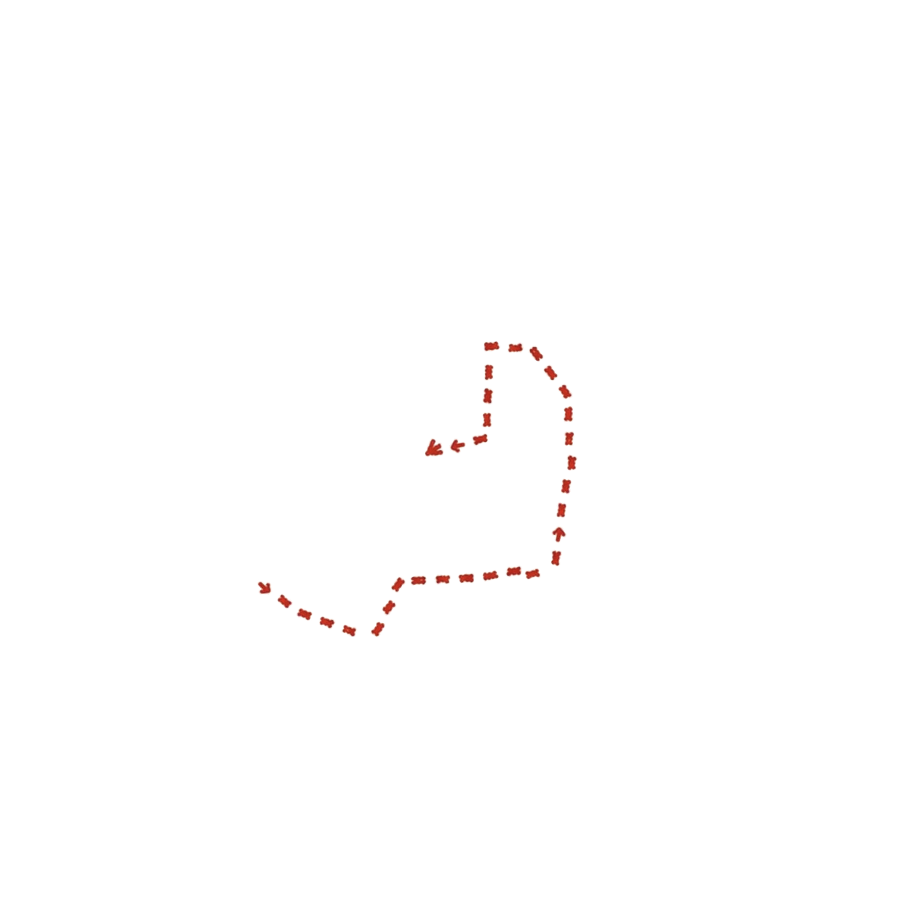
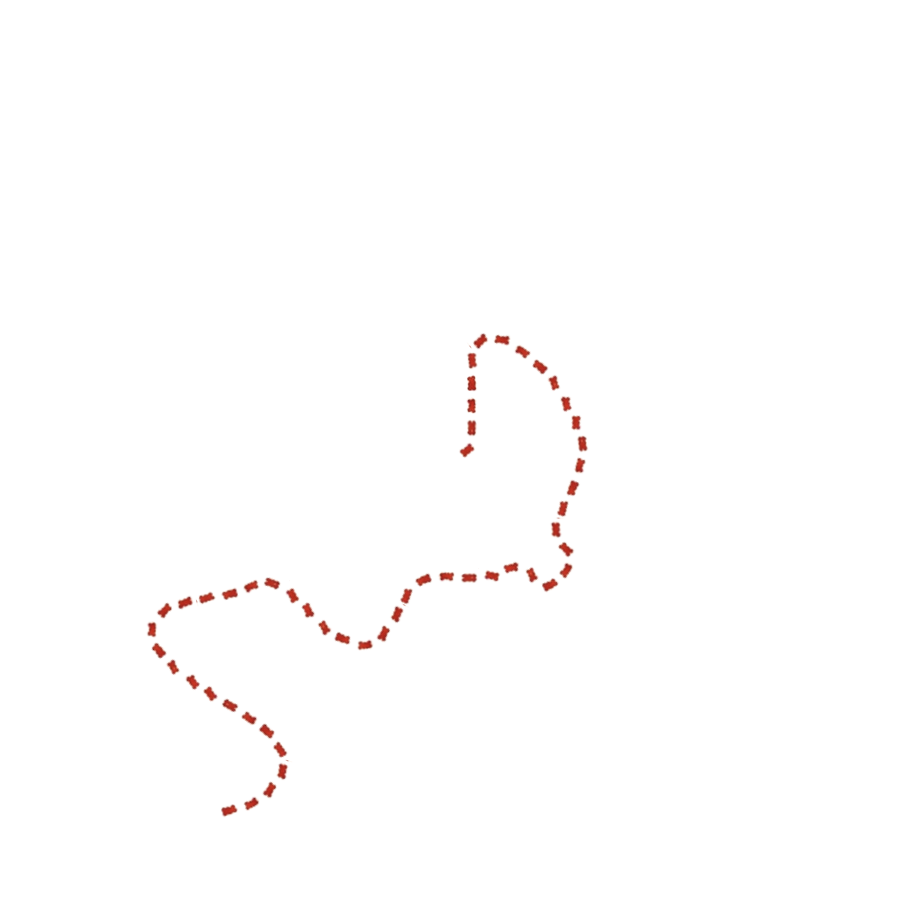
Polish finale maze route motion

diff --git a/app/globals.css b/app/globals.css
@@ -31,7 +31,7 @@ button { cursor: pointer; }
 .journey-artifact.arriving { animation: artifactSettle .42s 2.02s cubic-bezier(.2,.82,.2,1) both; }
 @keyframes artifactSettle { from { opacity: 0; transform: scale(.88) rotate(var(--part-rotate, 0deg)); } 70% { opacity: 1; transform: scale(1.07) rotate(var(--part-rotate, 0deg)); } to { opacity: 1; transform: scale(1) rotate(var(--part-rotate, 0deg)); filter: saturate(1.05); } }
 
-/* Room logo → poster: the route handoff continues across navigation. */
+/* Room logo → poster: the final gate keeps the poster's original wall weight. */
 .collection-transfer { position: fixed; z-index: 80; inset: 0; overflow: hidden; color: var(--ink); background: var(--soft); pointer-events: none; }
 .transfer-room-panel { position: absolute; z-index: 1; inset: 0; display: grid; place-content: center; justify-items: center; text-align: center; background: var(--soft); }
 .transfer-room-panel > span { color: var(--accent); font: 800 9px var(--font-geist-mono); letter-spacing: .18em; }
@@ -69,31 +69,30 @@ button { cursor: pointer; }
 .collection-transfer.is-keepsake.is-settled .transfer-room-panel h2 { animation: keepsakeTitle 1.1s cubic-bezier(.18,.72,.2,1) both; }
 .collection-transfer.is-afterglow .transfer-afterglow { animation: afterglowReveal 1.45s cubic-bezier(.18,.72,.2,1) both; }
 .collection-transfer.is-finale .assembly-artifact { opacity: 0; }
+.collection-transfer.is-finale .assembly-artifact.artifact-sound { opacity: 0 !important; animation: none !important; }
 .collection-transfer.is-assembling .assembly-artifact.artifact-eyes { animation: assembleEyes 1.25s var(--assembly-delay) cubic-bezier(.18,.72,.2,1) both; }
-.collection-transfer.is-assembling .assembly-artifact.artifact-sound { animation: assembleSound 1.25s var(--assembly-delay) cubic-bezier(.18,.72,.2,1) both; }
-.collection-transfer.is-assembling .assembly-artifact.artifact-body { animation: assembleBody 1.25s var(--assembly-delay) cubic-bezier(.18,.72,.2,1) both; }
 .collection-transfer.is-assembling .assembly-artifact.artifact-heart { animation: assembleHeart 1.25s var(--assembly-delay) cubic-bezier(.18,.72,.2,1) both; }
 .collection-transfer.is-assembling .assembly-artifact.artifact-grace { animation: assembleGrace 1.25s var(--assembly-delay) cubic-bezier(.18,.72,.2,1) both; }
-.collection-transfer.is-gate-opening .transfer-poster .artifact-sound { opacity: 1 !important; animation: gateReady 2.2s cubic-bezier(.2,.82,.2,1) both; }
 .collection-transfer.is-gate-opening .transfer-poster .journey-artifact:not(.artifact-sound) { animation: assembledPulse 2.2s cubic-bezier(.2,.82,.2,1) both; }
 .collection-transfer.is-final-scene .transfer-final-picture { opacity: 1; clip-path: none; }
 .collection-transfer.is-route-searching .transfer-poster .journey-artifact.artifact-eyes { opacity: .28 !important; transition: opacity 1.1s ease; }
-.collection-transfer.is-route-searching .route-magnifier { animation: magnifierFollowRoute 6.6s linear both; }
-.collection-transfer.is-route-searching .route-segment-1 { animation: routeSegmentIn 1.3s .1s ease-out both; }
-.collection-transfer.is-route-searching .route-segment-2 { animation: routeSegmentIn 1.3s 1.25s ease-out both; }
-.collection-transfer.is-route-searching .route-segment-3 { animation: routeSegmentIn 1.3s 2.4s ease-out both; }
-.collection-transfer.is-route-searching .route-segment-4 { animation: routeSegmentIn 1.3s 3.55s ease-out both; }
-.collection-transfer.is-route-searching .route-segment-5 { animation: routeSegmentIn 1.3s 4.7s ease-out both; }
-.collection-transfer.is-route-complete .transfer-poster .journey-artifact.artifact-grace { animation: crossFound 1.45s cubic-bezier(.2,.82,.2,1) both; }
-.collection-transfer.is-route-complete .route-magnifier { opacity: 0; transition: opacity 1.15s ease; }
+.collection-transfer.is-route-searching .transfer-poster .journey-artifact.artifact-body { opacity: 0 !important; animation: none !important; }
+.collection-transfer.is-route-searching .route-magnifier { animation: magnifierFollowRoute 9.6s linear both; }
+.collection-transfer.is-route-searching .route-segment-1 { animation: routeSegmentIn 2.15s .1s cubic-bezier(.2,.75,.2,1) both; }
+.collection-transfer.is-route-searching .route-segment-2 { animation: routeSegmentIn 2.15s 1.95s cubic-bezier(.2,.75,.2,1) both; }
+.collection-transfer.is-route-searching .route-segment-3 { animation: routeSegmentIn 2.15s 3.85s cubic-bezier(.2,.75,.2,1) both; }
+.collection-transfer.is-route-searching .route-segment-4 { animation: routeSegmentIn 2.15s 5.75s cubic-bezier(.2,.75,.2,1) both; }
+.collection-transfer.is-route-searching .route-segment-5 { animation: routeSegmentIn 2.15s 7.65s cubic-bezier(.2,.75,.2,1) both; }
+.collection-transfer.is-route-complete .transfer-poster .journey-artifact.artifact-grace { opacity: 1; animation: crossFound 1.45s cubic-bezier(.2,.82,.2,1) both; }
+.collection-transfer.is-route-complete .route-magnifier { animation: magnifierFound 1.35s cubic-bezier(.2,.82,.2,1) both; }
 .collection-transfer.is-route-complete .transfer-finale-caption { animation: finaleCaption 2.4s .25s cubic-bezier(.2,.82,.2,1) both; }
 .collection-transfer.is-finished { animation: transferStageFinish .82s ease forwards; }
-.sound-wall-closed { position: absolute; z-index: 3; left: var(--part-left); top: var(--part-top); width: var(--part-width); height: auto; object-fit: contain; opacity: 0; transform: rotate(var(--part-rotate)); }
-.sound-wall-closed-left { clip-path: inset(0 50% 0 0); transform-origin: 0 50%; }
-.sound-wall-closed-right { clip-path: inset(0 0 0 50%); transform-origin: 100% 50%; }
+.sound-wall-closed { position: absolute; z-index: 3; inset: 0; width: 100%; height: 100%; object-fit: cover; opacity: 0; mix-blend-mode: multiply; transform: none; }
+.sound-wall-closed-left { clip-path: inset(0 71.1% 0 0); transform-origin: 28.9% 64%; }
+.sound-wall-closed-right { clip-path: inset(0 0 0 28.9%); transform-origin: 28.9% 64%; }
 .collection-transfer.is-assembling .assembly-wall { animation: assembleWall 1.25s var(--assembly-delay) cubic-bezier(.18,.72,.2,1) both; }
-.collection-transfer.is-gate-opening .sound-wall-closed-left { animation: gateRetractLeft 2.2s cubic-bezier(.32,.02,.18,1) both; }
-.collection-transfer.is-gate-opening .sound-wall-closed-right { animation: gateRetractRight 2.2s cubic-bezier(.32,.02,.18,1) both; }
+.collection-transfer.is-gate-opening .sound-wall-closed-left { animation: gateOpenLeft 3s cubic-bezier(.4,0,.2,1) both; }
+.collection-transfer.is-gate-opening .sound-wall-closed-right { animation: gateOpenRight 3s cubic-bezier(.4,0,.2,1) both; }
 @keyframes transferRoomExit { 0%,38% { opacity: 1; transform: none; } to { opacity: 0; transform: translateX(-42vw) scale(.94); } }
 @keyframes transferLogoRelease { 0%,28% { transform: rotate(-3deg) scale(1); } 44% { transform: rotate(1deg) scale(1.045); } to { opacity: .16; transform: translateX(-18vw) rotate(-8deg) scale(.78); filter: grayscale(.72); } }
 @keyframes transferPosterEnter { 0% { opacity: 0; transform: translateX(68vw) scale(.82) rotate(2deg); } 22% { opacity: 1; } 86% { transform: translateX(-1vw) scale(1.012) rotate(-.25deg); } to { opacity: 1; transform: none; box-shadow: none; } }
@@ -103,29 +102,58 @@ button { cursor: pointer; }
 @keyframes afterglowReveal { from { opacity: 0; } to { opacity: 1; } }
 @keyframes transferStageFinish { to { opacity: 0; background: transparent; } }
 @keyframes assembleEyes { 0% { opacity: 0; transform: translate(18%,-24%) rotate(-8deg) scale(.45); } 68% { opacity: 1; transform: translate(-2%,2%) rotate(4deg) scale(1.07); filter: saturate(1.35) drop-shadow(0 0 10px rgba(53,104,232,.38)); } to { opacity: 1; transform: rotate(var(--part-rotate)) scale(1); filter: saturate(1.05); } }
-@keyframes assembleSound { 0% { opacity: 0; transform: rotate(calc(var(--part-rotate) - 12deg)) scale(.4); } 62% { opacity: 1; transform: rotate(calc(var(--part-rotate) + 3deg)) scale(1.08); filter: saturate(1.45) drop-shadow(0 0 8px rgba(233,84,47,.48)); } to { opacity: 1; transform: rotate(var(--part-rotate)) scale(1); filter: saturate(1.05); } }
-@keyframes assembleBody { 0% { opacity: 0; clip-path: inset(100% 0 0); transform: rotate(var(--part-rotate)) scale(.92); } 68% { opacity: 1; clip-path: inset(0); filter: saturate(1.5) drop-shadow(0 0 8px rgba(29,154,108,.4)); } to { opacity: 1; clip-path: inset(0); transform: rotate(var(--part-rotate)) scale(1); filter: saturate(1.05); } }
 @keyframes assembleHeart { 0% { opacity: 0; transform: rotate(-35deg) scale(.45); } 68% { opacity: 1; transform: rotate(14deg) scale(1.08); filter: saturate(1.4) drop-shadow(0 0 9px rgba(139,84,198,.42)); } to { opacity: 1; transform: rotate(var(--part-rotate)) scale(1); filter: saturate(1.05); } }
 @keyframes assembleGrace { 0% { opacity: 0; transform: rotate(var(--part-rotate)) scale(.35); } 62% { opacity: 1; transform: rotate(var(--part-rotate)) scale(1.13); filter: saturate(1.4) drop-shadow(0 0 13px rgba(216,155,24,.52)); } to { opacity: 1; transform: rotate(var(--part-rotate)) scale(1); filter: saturate(1.05); } }
-@keyframes assembleWall { 0% { opacity: 0; transform: rotate(var(--part-rotate)) scale(.4); } 65% { opacity: 1; transform: rotate(var(--part-rotate)) scale(1.06); filter: drop-shadow(0 0 5px rgba(23,23,19,.25)); } to { opacity: 1; transform: rotate(var(--part-rotate)) scale(1); } }
-@keyframes gateReady { 0%,100% { transform: rotate(var(--part-rotate)) scale(1); filter: saturate(1.05); } 48% { transform: rotate(var(--part-rotate)) scale(1.035); filter: saturate(1.25) drop-shadow(0 0 5px rgba(233,84,47,.3)); } }
-@keyframes gateRetractLeft { 0%,14% { opacity: 1; transform: rotate(var(--part-rotate)) scaleX(1); } 78% { opacity: 1; transform: rotate(var(--part-rotate)) scaleX(.62); } to { opacity: .08; transform: rotate(var(--part-rotate)) scaleX(.58); } }
-@keyframes gateRetractRight { 0%,14% { opacity: 1; transform: rotate(var(--part-rotate)) scaleX(1); } 78% { opacity: 1; transform: rotate(var(--part-rotate)) scaleX(.62); } to { opacity: .08; transform: rotate(var(--part-rotate)) scaleX(.58); } }
+@keyframes assembleWall { 0% { opacity: 0; } 64% { opacity: 1; } to { opacity: 1; } }
+@keyframes gateOpenLeft { 0%,12% { opacity: 1; transform: translate(0,0); } 38% { opacity: 1; transform: translate(-.85%,-1.25%); } 68% { opacity: 1; transform: translate(-1.7%,-2.5%); } 88% { opacity: 1; transform: translate(-2.35%,-3.45%); } to { opacity: 0; transform: translate(-2.65%,-3.85%); } }
+@keyframes gateOpenRight { 0%,12% { opacity: 1; transform: translate(0,0); } 38% { opacity: 1; transform: translate(.85%,1.25%); } 68% { opacity: 1; transform: translate(1.7%,2.5%); } 88% { opacity: 1; transform: translate(2.35%,3.45%); } to { opacity: 0; transform: translate(2.65%,3.85%); } }
 @keyframes assembledPulse { 50% { transform: scale(1.06) rotate(var(--part-rotate,0deg)); filter: saturate(1.25) drop-shadow(0 0 7px rgba(232,169,19,.28)); } }
-@keyframes finalRouteReveal { from { opacity: 0; clip-path: circle(0 at 28% 65%); } to { opacity: 1; clip-path: circle(125% at 28% 65%); } }
+@keyframes finalRouteReveal { from { opacity: 0; clip-path: circle(0 at 25.6% 90%); } to { opacity: 1; clip-path: circle(125% at 25.6% 90%); } }
 @keyframes magnifierFollowRoute {
-  0% { left: 29%; top: 65%; opacity: 0; transform: translate(-53%,-30%) rotate(-18deg) scale(.72); }
-  5% { opacity: 1; transform: translate(-53%,-30%) rotate(-12deg) scale(.82); }
-  16% { left: 37%; top: 70%; transform: translate(-53%,-30%) rotate(8deg) scale(.82); }
-  28% { left: 44.5%; top: 64.5%; transform: translate(-53%,-30%) rotate(-10deg) scale(.84); }
-  44% { left: 61.7%; top: 63.8%; transform: translate(-53%,-30%) rotate(-4deg) scale(.84); }
-  58% { left: 63.2%; top: 48%; transform: translate(-53%,-30%) rotate(-18deg) scale(.86); }
-  70% { left: 63.2%; top: 38.5%; transform: translate(-53%,-30%) rotate(-9deg) scale(.86); }
-  81% { left: 54.2%; top: 38.5%; transform: translate(-53%,-30%) rotate(9deg) scale(.88); }
-  92% { left: 53.8%; top: 49.5%; transform: translate(-53%,-30%) rotate(15deg) scale(.9); }
-  100% { left: 47.5%; top: 50.5%; opacity: 1; transform: translate(-53%,-30%) rotate(-8deg) scale(.94); filter: saturate(1.35) drop-shadow(0 0 11px rgba(53,104,232,.3)); }
+  0% { left: 25.56%; top: 90%; opacity: 0; transform: translate(-47%,-44%) rotate(-10deg) scale(.68); }
+  2.5% { left: 28.6%; top: 88.83%; opacity: 1; transform: translate(-47%,-44%) rotate(-10deg) scale(.685); }
+  5% { left: 30.9%; top: 86.54%; opacity: 1; transform: translate(-47%,-44%) rotate(-10deg) scale(.69); }
+  7.5% { left: 31.23%; top: 83.39%; opacity: 1; transform: translate(-47%,-44%) rotate(-10deg) scale(.695); }
+  10% { left: 29.24%; top: 80.83%; opacity: 1; transform: translate(-47%,-44%) rotate(-10deg) scale(.7); }
+  12.5% { left: 26.58%; top: 78.92%; opacity: 1; transform: translate(-47%,-44%) rotate(-10deg) scale(.705); }
+  15% { left: 23.8%; top: 77.18%; opacity: 1; transform: translate(-47%,-44%) rotate(-10deg) scale(.71); }
+  17.5% { left: 21.06%; top: 75.39%; opacity: 1; transform: translate(-47%,-44%) rotate(-10deg) scale(.715); }
+  20% { left: 18.53%; top: 73.31%; opacity: 1; transform: translate(-47%,-44%) rotate(-10deg) scale(.72); }
+  22.5% { left: 16.83%; top: 70.56%; opacity: 1; transform: translate(-47%,-44%) rotate(-10deg) scale(.725); }
+  25% { left: 18.23%; top: 67.86%; opacity: 1; transform: translate(-47%,-44%) rotate(-10deg) scale(.73); }
+  27.5% { left: 21.29%; top: 66.72%; opacity: 1; transform: translate(-47%,-44%) rotate(-10deg) scale(.735); }
+  30% { left: 24.52%; top: 66.16%; opacity: 1; transform: translate(-47%,-44%) rotate(-10deg) scale(.74); }
+  32.5% { left: 27.67%; top: 65.3%; opacity: 1; transform: translate(-47%,-44%) rotate(-10deg) scale(.745); }
+  35% { left: 30.71%; top: 65.05%; opacity: 1; transform: translate(-47%,-44%) rotate(-10deg) scale(.75); }
+  37.5% { left: 33.29%; top: 67.05%; opacity: 1; transform: translate(-47%,-44%) rotate(-10deg) scale(.755); }
+  40% { left: 35.62%; top: 69.36%; opacity: 1; transform: translate(-47%,-44%) rotate(-10deg) scale(.76); }
+  42.5% { left: 38.35%; top: 71.14%; opacity: 1; transform: translate(-47%,-44%) rotate(-10deg) scale(.765); }
+  45% { left: 41.52%; top: 71.35%; opacity: 1; transform: translate(-47%,-44%) rotate(-10deg) scale(.77); }
+  47.5% { left: 43.67%; top: 68.94%; opacity: 1; transform: translate(-47%,-44%) rotate(-10deg) scale(.775); }
+  50% { left: 45.23%; top: 66.06%; opacity: 1; transform: translate(-47%,-44%) rotate(-10deg) scale(.78); }
+  52.5% { left: 47.83%; top: 64.24%; opacity: 1; transform: translate(-47%,-44%) rotate(-10deg) scale(.785); }
+  55% { left: 51.1%; top: 64.16%; opacity: 1; transform: translate(-47%,-44%) rotate(-10deg) scale(.79); }
+  57.5% { left: 54.37%; top: 64.13%; opacity: 1; transform: translate(-47%,-44%) rotate(-10deg) scale(.795); }
+  60% { left: 57.38%; top: 62.92%; opacity: 1; transform: translate(-47%,-44%) rotate(-10deg) scale(.8); }
+  62.5% { left: 59.96%; top: 64.75%; opacity: 1; transform: translate(-47%,-44%) rotate(-10deg) scale(.805); }
+  65% { left: 62.6%; top: 63.69%; opacity: 1; transform: translate(-47%,-44%) rotate(-10deg) scale(.81); }
+  67.5% { left: 62.77%; top: 60.74%; opacity: 1; transform: translate(-47%,-44%) rotate(-10deg) scale(.815); }
+  70% { left: 61.97%; top: 57.8%; opacity: 1; transform: translate(-47%,-44%) rotate(-10deg) scale(.82); }
+  72.5% { left: 63.31%; top: 54.81%; opacity: 1; transform: translate(-47%,-44%) rotate(-10deg) scale(.825); }
+  75% { left: 64.47%; top: 51.75%; opacity: 1; transform: translate(-47%,-44%) rotate(-10deg) scale(.83); }
+  77.5% { left: 64.58%; top: 48.5%; opacity: 1; transform: translate(-47%,-44%) rotate(-10deg) scale(.835); }
+  80% { left: 63.43%; top: 45.45%; opacity: 1; transform: translate(-47%,-44%) rotate(-10deg) scale(.84); }
+  82.5% { left: 61.67%; top: 42.68%; opacity: 1; transform: translate(-47%,-44%) rotate(-10deg) scale(.845); }
+  85% { left: 59.47%; top: 40.26%; opacity: 1; transform: translate(-47%,-44%) rotate(-10deg) scale(.85); }
+  87.5% { left: 56.87%; top: 38.27%; opacity: 1; transform: translate(-47%,-44%) rotate(-10deg) scale(.855); }
+  90% { left: 53.8%; top: 37.54%; opacity: 1; transform: translate(-47%,-44%) rotate(-10deg) scale(.86); }
+  92.5% { left: 52.33%; top: 40.28%; opacity: 1; transform: translate(-47%,-44%) rotate(-10deg) scale(.865); }
+  95% { left: 52.33%; top: 43.56%; opacity: 1; transform: translate(-47%,-44%) rotate(-10deg) scale(.87); }
+  97.5% { left: 52.33%; top: 46.83%; opacity: 1; transform: translate(-47%,-44%) rotate(-10deg) scale(.875); }
+  100% { left: 51.67%; top: 50%; opacity: 1; transform: translate(-47%,-44%) rotate(-10deg) scale(.88); filter: saturate(1.3) drop-shadow(0 0 10px rgba(53,104,232,.26)); }
 }
-@keyframes routeSegmentIn { from { opacity: 0; transform: scale(.985); filter: saturate(.7); } 58% { opacity: 1; filter: saturate(1.5) drop-shadow(0 0 5px rgba(233,84,47,.48)); } to { opacity: 1; transform: scale(1); filter: saturate(1.05); } }
+@keyframes magnifierFound { from { left: 51.67%; top: 50%; opacity: 1; transform: translate(-47%,-44%) rotate(-10deg) scale(.88); filter: saturate(1.3) drop-shadow(0 0 10px rgba(53,104,232,.26)); } 42% { left: 51.67%; top: 50%; opacity: .72; transform: translate(-47%,-44%) rotate(-6deg) scale(.94); } to { left: 51.67%; top: 50%; opacity: 0; transform: translate(-47%,-44%) rotate(-2deg) scale(.78); filter: saturate(1); } }
+@keyframes routeSegmentIn { from { opacity: 0; transform: scale(.992); filter: saturate(.72); } 58% { opacity: 1; filter: saturate(1.28) drop-shadow(0 0 4px rgba(201,71,52,.22)); } to { opacity: 1; transform: scale(1); filter: saturate(1.04); } }
 @keyframes crossFound { 0% { transform: scale(.92); filter: saturate(.9); } 55% { transform: scale(1.13); filter: saturate(1.3) drop-shadow(0 0 11px rgba(232,169,19,.48)); } 100% { transform: scale(1); filter: saturate(1.05); } }
 @keyframes finaleCaption { 0% { opacity: 0; transform: translate(-50%,24px) rotate(-1deg); } 22%, 82% { opacity: 1; transform: translate(-50%,0) rotate(-1deg); } to { opacity: 0; transform: translate(-50%,-10px) rotate(-1deg); } }
 .artifact-legend { padding: 12px 4px 3px; display: grid; grid-template-columns: repeat(5,1fr); gap: 5px; border-top: 1px solid var(--line); }
@@ -140,11 +168,13 @@ button { cursor: pointer; }
 @keyframes toastFind { 0% { opacity: 0; transform: translateY(24px) rotate(2deg); } 18%, 76% { opacity: 1; transform: translateY(0) rotate(-1deg); } 100% { opacity: 0; transform: translateY(-12px) rotate(-1deg); pointer-events: none; } }
 .journey-found-picture, .transfer-final-picture { position: absolute; z-index: 1; inset: 0; overflow: hidden; pointer-events: none; }
 .journey-found-picture { animation: finalRouteReveal 1.05s cubic-bezier(.2,.82,.2,1) both; }
-.transfer-final-picture { opacity: 0; clip-path: circle(0 at 28% 65%); }
+.transfer-final-picture { opacity: 0; clip-path: circle(0 at 25.6% 90%); }
 .journey-final-route, .journey-route-segment { position: absolute; inset: 0; width: 100%; height: 100%; object-fit: cover; }
 .journey-route-segment { opacity: 0; }
-.route-magnifier { position: absolute; z-index: 5; left: 29%; top: 65%; width: 24%; height: auto; opacity: 0; border-radius: 50%; mix-blend-mode: multiply; pointer-events: none; transform: translate(-53%,-30%) rotate(-18deg) scale(.72); transform-origin: 53% 30%; filter: saturate(1.15) drop-shadow(0 7px 6px rgba(0,0,0,.16)); }
+.journey-found-picture .journey-route-segment { opacity: 1; }
+.route-magnifier { position: absolute; z-index: 5; left: 25.56%; top: 90%; width: 20%; height: auto; opacity: 0; border-radius: 50%; mix-blend-mode: multiply; pointer-events: none; transform: translate(-47%,-44%) rotate(-10deg) scale(.68); transform-origin: 47% 44%; filter: saturate(1.12) drop-shadow(0 6px 5px rgba(0,0,0,.14)); }
 .journey-complete .artifact-grace { animation: crossFound .9s .28s cubic-bezier(.2,.82,.2,1) both; }
+.journey-complete .artifact-sound, .journey-complete .artifact-body { opacity: 0; }
 .journey-complete .artifact-eyes { translate: var(--piece-react-x,0) var(--piece-react-y,0); transition: translate .28s cubic-bezier(.2,.82,.2,1), filter .28s ease; }
 .journey-complete .artifact-heart { rotate: var(--compass-react,0deg); transition: rotate .28s cubic-bezier(.2,.82,.2,1), filter .28s ease; }
 .journey-complete:hover .artifact-eyes, .journey-complete:hover .artifact-heart { filter: saturate(1.18) drop-shadow(0 0 6px rgba(25,63,174,.16)); }
@@ -686,5 +716,14 @@ footer b { margin-left: auto; color: #1d9a6c; }
   .scan-success.scan-exit .scan-orbit, .scan-success.scan-exit .scan-panel,
   .exit-logo-handoff, .collection-transfer *, .journey-artifact.arriving,
   .journey-live-room.routing::after { animation: none !important; }
+  .collection-transfer.is-finale .transfer-room-panel,
+  .collection-transfer.is-finale .transfer-caption,
+  .collection-transfer.is-finale .transfer-flyer { opacity: 0; }
+  .collection-transfer.is-finale .transfer-poster { opacity: 1; transform: none; }
+  .collection-transfer.is-finale .assembly-artifact:not(.artifact-sound) { opacity: 1; }
+  .collection-transfer.is-finale .assembly-artifact.artifact-body { opacity: 0; clip-path: inset(0); }
+  .collection-transfer.is-finale .assembly-wall { opacity: 0; }
   .collection-transfer.is-final-scene .transfer-final-picture { opacity: 1; clip-path: none; }
+  .collection-transfer.is-final-scene .journey-route-segment { opacity: 1; clip-path: inset(0); }
+  .collection-transfer.is-finale .route-magnifier { display: none; }
 }

diff --git a/app/page.tsx b/app/page.tsx
@@ -17,7 +17,6 @@ import {
 
 type FindRoom = (typeof rooms)[number];
 const routeSegments = [1, 2, 3, 4, 5] as const;
-const soundRoom = rooms.find((room) => room.key === "sound")!;
 const eyesRoom = rooms.find((room) => room.key === "eyes")!;
 const roomAfterglow: Record<RoomKey, { line: string; reference: string }> = {
   eyes: { line: "내 눈을 열어서 주의 율법에서 놀라운 것을 보게 하소서", reference: "시편 119:18" },
@@ -270,12 +269,24 @@ function HomeContent() {
 
 function JourneyFoundPicture({ transfer = false }: { transfer?: boolean }) {
   return (
-    <div className={transfer ? "transfer-final-picture" : "journey-found-picture"} aria-label="열린 미로의 점선 길을 따라 십자가를 찾은 완성 포스터">
-      {transfer ? routeSegments.map((segment) => (
-        <Image key={segment} className={`journey-route-segment route-segment-${segment}`} src={`/collection/maze-route-segment-${segment}.webp`} alt="" width={900} height={900} unoptimized priority />
-      )) : (
-        <Image className="journey-final-route" src="/collection/maze-final-route.png" alt="열린 입구부터 십자가까지 이어지는 원본 포스터의 붉은 점선 길" width={900} height={900} unoptimized priority />
-      )}
+    <div
+      className={transfer ? "transfer-final-picture" : "journey-found-picture"}
+      data-testid={transfer ? "finale-route" : "completed-route"}
+      aria-label="열린 미로의 점선 길을 따라 십자가를 찾은 완성 포스터"
+    >
+      {routeSegments.map((segment) => (
+        <Image
+          key={segment}
+          className={`journey-route-segment route-segment-${segment}`}
+          data-route-segment={segment}
+          src={`/collection/maze-route-segment-${segment}.webp`}
+          alt=""
+          width={900}
+          height={900}
+          unoptimized
+          priority
+        />
+      ))}
     </div>
   );
 }
@@ -295,6 +306,7 @@ function CollectionTransfer({ room, completedRooms, canvasRef, finalCompletion, 
   const posterRef = useRef<HTMLDivElement>(null);
   const targetRef = useRef<HTMLImageElement>(null);
   const flyerRef = useRef<HTMLImageElement>(null);
+  const completedCount = completedRooms.length;
 
   useEffect(() => {
     let flyerAnimation: Animation | null = null;
@@ -387,18 +399,18 @@ function CollectionTransfer({ room, completedRooms, canvasRef, finalCompletion, 
 
       timers.push(window.setTimeout(() => setSettled(true), 3600));
       timers.push(window.setTimeout(() => setAssembling(true), 4300));
-      timers.push(window.setTimeout(() => setGateOpening(true), 8500));
+      timers.push(window.setTimeout(() => setGateOpening(true), 9300));
       timers.push(window.setTimeout(() => {
         setFinalScene(true);
         setRouteSearching(true);
-      }, 10800));
-      timers.push(window.setTimeout(() => setRouteComplete(true), 17400));
-      timers.push(window.setTimeout(() => setAfterglow(true), 18900));
-      timers.push(window.setTimeout(() => setFinished(true), 24200));
+      }, 12800));
+      timers.push(window.setTimeout(() => setRouteComplete(true), 22500));
+      timers.push(window.setTimeout(() => setAfterglow(true), 24700));
+      timers.push(window.setTimeout(() => setFinished(true), 30100));
       timers.push(window.setTimeout(() => {
         setVisible(false);
         onDone();
-      }, 25200));
+      }, 31100));
     };
 
     timers.push(window.setTimeout(prepare, mobile ? 480 : 90));
@@ -406,7 +418,7 @@ function CollectionTransfer({ room, completedRooms, canvasRef, finalCompletion, 
       timers.forEach((timer) => window.clearTimeout(timer));
       flyerAnimation?.cancel();
     };
-  }, [canvasRef, finalCompletion, onDone, room]);
+  }, [canvasRef, completedCount, finalCompletion, onDone, room]);
 
   if (!visible) return null;
   const assemblyRooms = completedRooms
@@ -436,10 +448,30 @@ function CollectionTransfer({ room, completedRooms, canvasRef, finalCompletion, 
           width={item.collectionSize[0]}
           height={item.collectionSize[1]}
         />)}
-        <Image style={{ ...artifactStyle(soundRoom), "--assembly-delay": `${soundAssemblyIndex * 720}ms` } as React.CSSProperties} className="sound-wall-closed sound-wall-closed-left assembly-wall" src="/collection/sound-wall-closed.webp" alt="" width={600} height={600} unoptimized priority />
-        <Image style={{ ...artifactStyle(soundRoom), "--assembly-delay": `${soundAssemblyIndex * 720}ms` } as React.CSSProperties} className="sound-wall-closed sound-wall-closed-right assembly-wall" src="/collection/sound-wall-closed.webp" alt="" width={600} height={600} unoptimized priority />
+        <Image
+          style={{ "--assembly-delay": `${soundAssemblyIndex * 720}ms` } as React.CSSProperties}
+          className="sound-wall-closed sound-wall-closed-left assembly-wall"
+          data-testid="maze-gate-left"
+          src="/collection/maze-gate-closed.webp"
+          alt=""
+          width={900}
+          height={900}
+          unoptimized
+          priority
+        />
+        <Image
+          style={{ "--assembly-delay": `${soundAssemblyIndex * 720}ms` } as React.CSSProperties}
+          className="sound-wall-closed sound-wall-closed-right assembly-wall"
+          data-testid="maze-gate-right"
+          src="/collection/maze-gate-closed.webp"
+          alt=""
+          width={900}
+          height={900}
+          unoptimized
+          priority
+        />
         <JourneyFoundPicture transfer />
-        <Image className="route-magnifier" src={eyesRoom.collectionAsset} alt="붉은 점선 길을 따라 십자가를 찾는 돋보기" width={600} height={600} unoptimized priority />
+        <Image className="route-magnifier" data-testid="route-magnifier" src={eyesRoom.collectionAsset} alt="붉은 점선 길을 따라 십자가를 찾는 돋보기" width={600} height={600} unoptimized priority />
       </div>}
       {finalCompletion && <Image ref={flyerRef} className={`transfer-flyer transfer-flyer-${room.key}`} src={room.collectionAsset} alt={`${room.artifactName} 이동 중`} width={room.collectionSize[0]} height={room.collectionSize[1]} priority />}
       {finalCompletion && <div className="transfer-caption"><span>ALL PARTS FOUND · 5/5</span><strong>기억해 둔 파츠들</strong><small>이제 하나씩 제자리를 찾아갑니다</small></div>}
